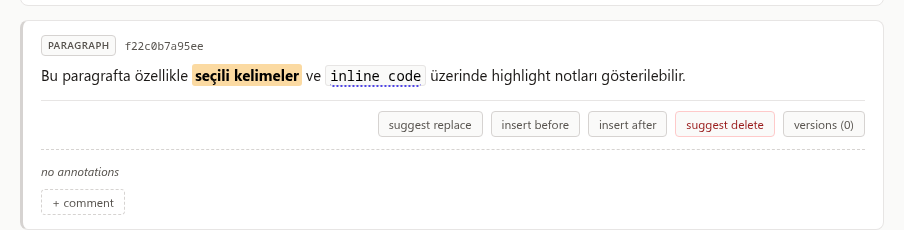
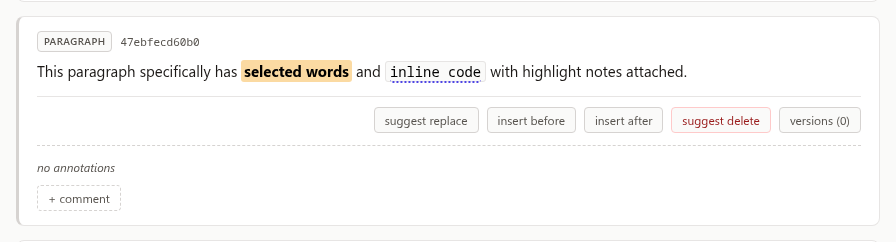
docs: english demo, tighter element-focused screenshots

diff --git a/README.md b/README.md
@@ -10,41 +10,47 @@ A block-level Markdown review tool that renders any `.md` file in a local web UI
 
 Run `markdown-review demo.md` to see it live — `demo.md` comes pre-seeded with examples of every feature.
 
-### Block-level review
+### Annotations
 
-Each paragraph, heading, list item, code block, and table gets its own review item. User and agent annotations appear alongside the content.
+User and agent annotations appear below each review item, color-coded by author and type (`info`, `error`, `task`, `comment`).
 
-![Block-level review: annotations on paragraphs, headings, and list items](docs/01-block-review.png)
+![Annotations on a review item: user comment and agent info note](docs/01-annotations.png)
 
 ### Highlights
 
-Marker highlights draw attention to important phrases. Underline highlights gloss difficult terms — hover to see the note.
+Marker highlights (solid background) draw attention. Underline highlights (dotted) gloss terms — hover to see the note.
 
-![Highlight examples: marker and underline with hover notes](docs/02-highlights.png)
+![Inline highlights: marker and underline with hover tooltips](docs/02-highlights.png)
 
-### Suggestions — replace
+### Suggestions — open
 
-Propose a full block replacement. Accept or reject without touching the file.
+Propose a replacement without touching the file. Accept or reject from the suggestion panel.
 
-![Replace suggestion on a paragraph](docs/03a-suggestion-replace.png)
+![Open replace suggestion with proposed text](docs/03a-suggestion-open.png)
 
-### Suggestions — insert
+### Suggestions — accepted
 
-Insert new content before or after any block. Accepted insertions show inline with version tracking.
+Accepted suggestions apply to the file and show their applied status inline. The tool tracks `before → after` version history.
 
-![Insert-after suggestion, accepted and applied](docs/03b-suggestion-insert.png)
+![Accepted suggestion showing applied status](docs/03b-suggestion-accepted.png)
 
-### Code blocks & tables
+### Code review
 
-Code blocks and tables are first-class review items — annotate, highlight, and suggest changes just like paragraphs.
+Code blocks are first-class review items. Annotate them with `error`, `info`, or any type — just like prose paragraphs.
 
-![Code block with error annotation and data table](docs/04-code-table.png)
+![Code block with error annotation](docs/04-code-error.png)
 
-### Math & version history
+### Math & edit history
 
-KaTeX math renders natively. When suggestions are accepted, the tool tracks `before → after` version history per item.
+KaTeX renders natively. When source changes through the tool, version history records every `before → after` edit.
 
-![Inline math rendering with suggestion history and version tracking](docs/05-math.png)
+![Inline math with edit history tracking](docs/05-math-version.png)
+
+### Orphan tracking
+
+If an item disappears from the source (e.g. edited outside the tool), its review data moves to the orphan panel instead of being lost.
+
+![Orphan panel preserving review data for removed items](docs/06-orphans.png)
 
 ---
 

diff --git a/demo.md b/demo.md
@@ -1,42 +1,41 @@
 # markdown-review demo
 
-Bu dosya markdown-review'un temel özelliklerini tek yerde göstermek için hazırlandı.
+This file demonstrates the core features of markdown-review in one place.
 
-## 1. Blok bazlı review
+## 1. Block-level review
 
-Her paragraf, başlık, liste elemanı, kod bloğu ve tablo kendi review item kimliğini alır. Bu paragrafın üzerinde hem yorum hem highlight örneği var.
+Every paragraph, heading, list item, code block, and table gets its own review item identity. This paragraph has both a user comment and agent highlights.
 
-- İlk liste elemanı ayrı bir review item olarak yorumlanabilir.
-- İkinci liste elemanı da ayrı bir review item kimliği taşır.
+- The first list item can be annotated as a separate review item.
+- The second list item also carries its own review item identity.
 
-## 2. Highlight örnekleri
+## 2. Highlights
 
-Bu paragrafta özellikle **seçili kelimeler** ve `inline code` üzerinde highlight notları gösterilebilir.
+This paragraph specifically has **selected words** and `inline code` with highlight notes attached.
 
-## 3. Öneri akışı
+## 3. Suggestion flow
 
-Bu paragraf biraz zayıf yazıldı. Review sırasında replace önerisiyle daha net hale getirilebilir.
+This paragraph is a bit weakly written. During review it can be improved with a replace suggestion.
 
-Bu paragrafın arkasına yeni bir paragraf ekleme önerisi var.
+This paragraph has an insert-after suggestion behind it.
 
-Bu yeni paragraf, kabul edildiğinde iki paragraf arasına otomatik boşlukla eklenecek.
+This new paragraph was inserted by accepting the suggestion above.
 
-
-## 4. Kod ve tablo
+## 4. Code and tables
 
 ```python
 def normalize(text: str) -> str:
     return " ".join(text.split())
 ```
 
-| Özellik | Durum |
+| Feature | Status |
 |---|---|
-| Annotation | Var |
-| Highlight | Var |
-| Suggestion | Var |
+| Annotation | Yes |
+| Highlight | Yes |
+| Suggestion | Yes |
 
-## 5. Matematik
+## 5. Math
 
-Basit bir inline formül: $a^2 + b^2 = c^2$. Bu satır accepted suggestion ve version history örneği olarak güncellendi.
+A simple inline formula: $a^2 + b^2 = c^2$. This line was updated as an accepted suggestion and version history example.
 
-Bu paragraf dışarıdan değiştirildiği için eski yorum orphan paneline taşınır.
+This paragraph was edited externally so its old comment moved to the orphan panel.
